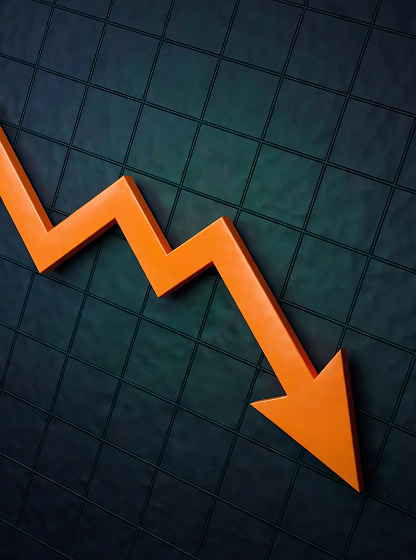
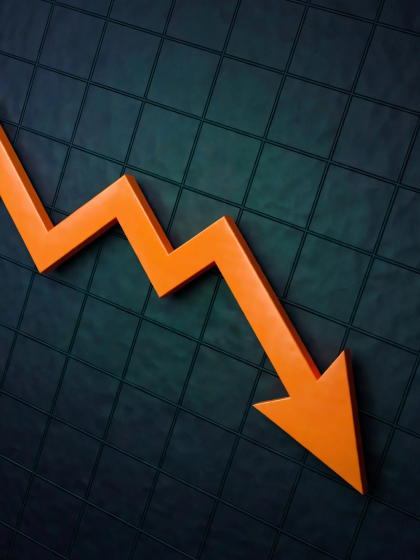
Убрали описание в карточках новостей на главной странице

diff --git a/index.html b/index.html
@@ -236,11 +236,6 @@
             </span>
             <div class="news-card__content">
               <h3 class="news-card__title">Развитие сети<br>в Калининградской области</h3>
-              <div class="news-card__excerpt-wrap">
-                <p class="news-card__excerpt">
-                  Завершено создание сети дифференциальных геодезических станций в Калининградской области
-                </p>
-              </div>
             </div>
           </a>
         </article>
@@ -261,11 +256,6 @@
             </span>
             <div class="news-card__content">
               <h3 class="news-card__title">Изменения<br>тарифов</h3>
-              <div class="news-card__excerpt-wrap">
-                <p class="news-card__excerpt">
-                  Снизили стоимость тарифов RTK и добавили новый тариф «RTK без МСК»
-                </p>
-              </div>
             </div>
           </a>
         </article>
@@ -286,11 +276,6 @@
             </span>
             <div class="news-card__content">
               <h3 class="news-card__title">Развитие сети<br>в марте 2025</h3>
-              <div class="news-card__excerpt-wrap">
-                <p class="news-card__excerpt">
-                  Карта покрытия пополнилась станциями в Луховицах, Кобани, Туймазах и Студенцах
-                </p>
-              </div>
             </div>
           </a>
         </article>

diff --git a/css/style.css b/css/style.css
@@ -1046,8 +1046,7 @@ label:has(> input[type="radio"]), label:has(> input[type="radio"]) * {
   transform: translate(5px, -5px);
 }
 
-/* Text block anchored to the bottom — the excerpt expands on hover and
-   pushes the title upwards (reference: second state) */
+/* Text block anchored to the bottom — только заголовок */
 .news-card__content {
   position: absolute;
   left: clamp(18px, 2vw, 28px);
@@ -1064,25 +1063,6 @@ label:has(> input[type="radio"]), label:has(> input[type="radio"]) * {
   font-weight: 700;
   letter-spacing: -0.015em;
   text-shadow: 0 2px 12px rgba(26, 39, 51, 0.35);
-}
-.news-card__excerpt-wrap {
-  display: grid;
-  grid-template-rows: 0fr;
-  opacity: 0;
-  transition: grid-template-rows 0.45s cubic-bezier(0.2, 0.7, 0.2, 1), opacity 0.35s ease;
-}
-.news-card__link:hover .news-card__excerpt-wrap,
-.news-card__link:focus-visible .news-card__excerpt-wrap {
-  grid-template-rows: 1fr;
-  opacity: 1;
-}
-.news-card__excerpt {
-  overflow: hidden;
-  margin: 0;
-  padding-top: 16px;
-  font-size: clamp(1rem, 1.15vw, 1.12rem);
-  line-height: 1.45;
-  color: rgba(255, 255, 255, 0.92);
 }
 
 /* =============================================================
